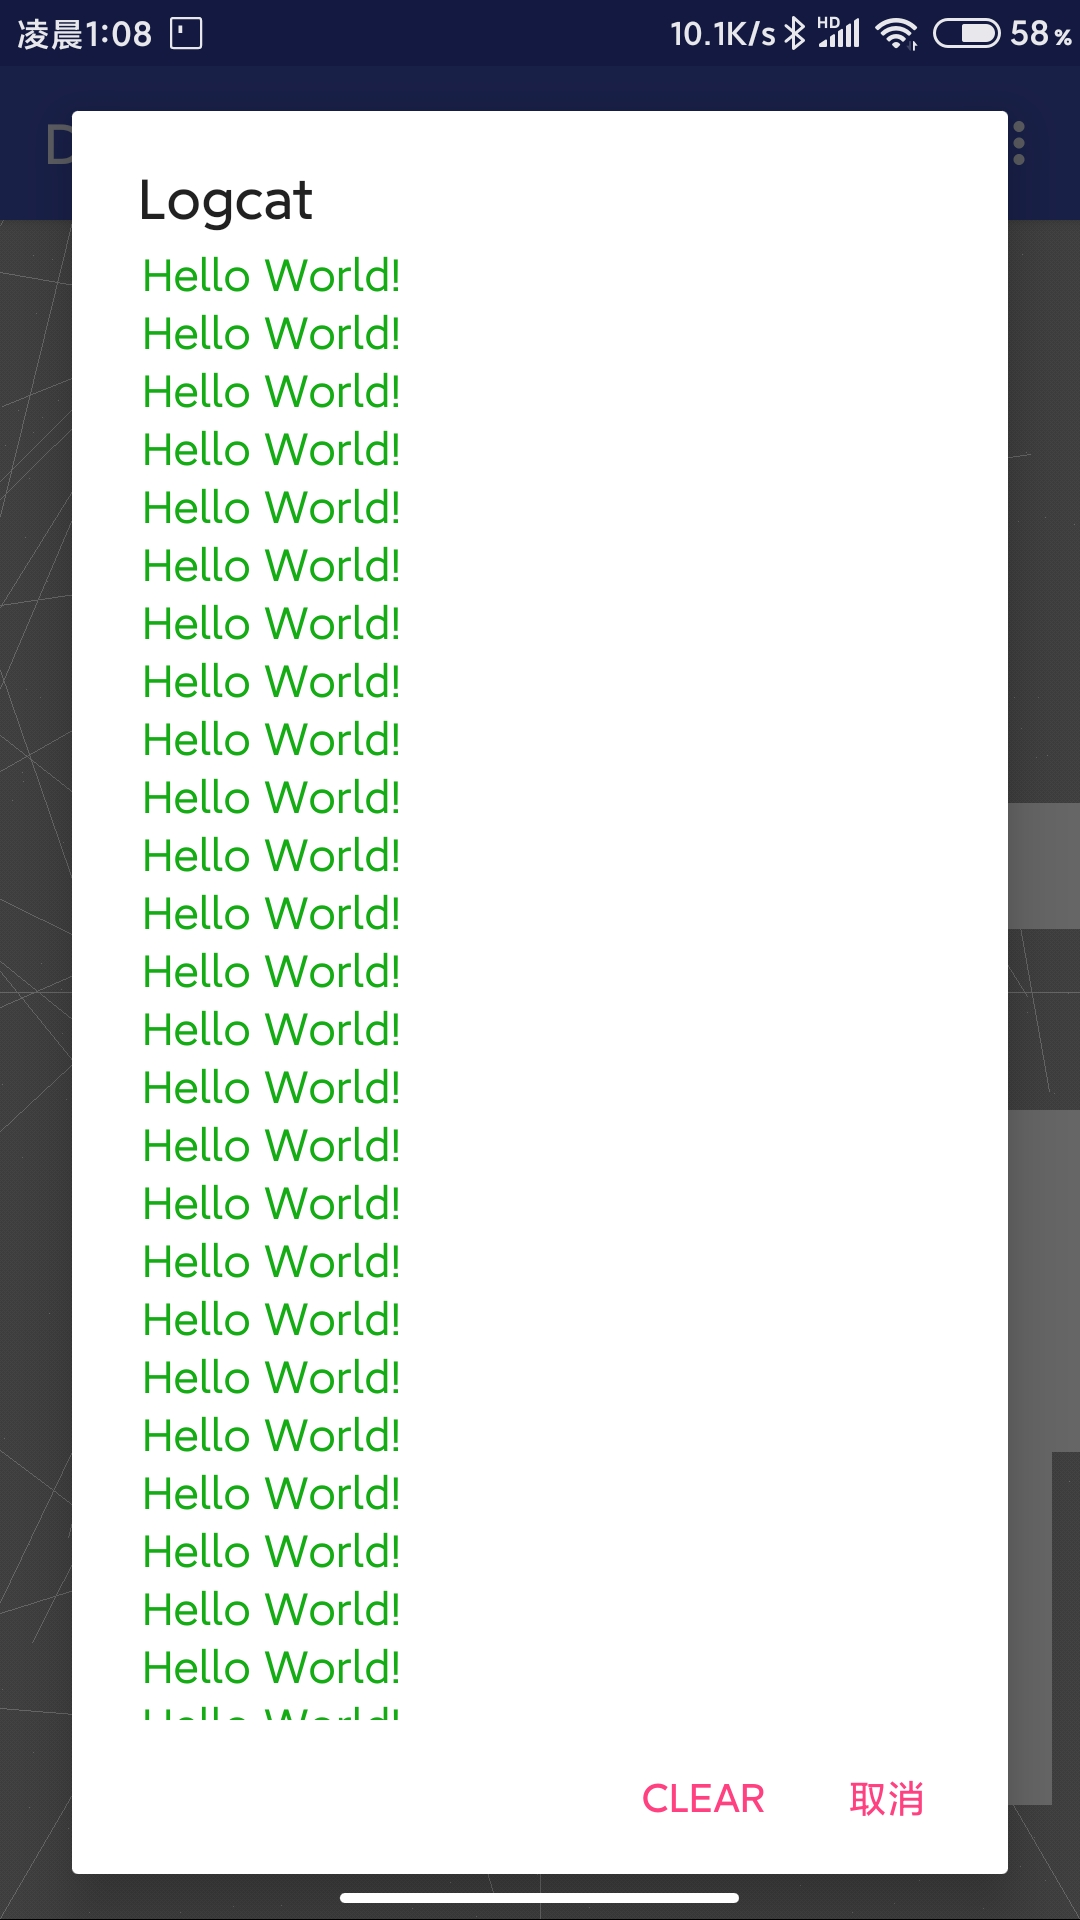
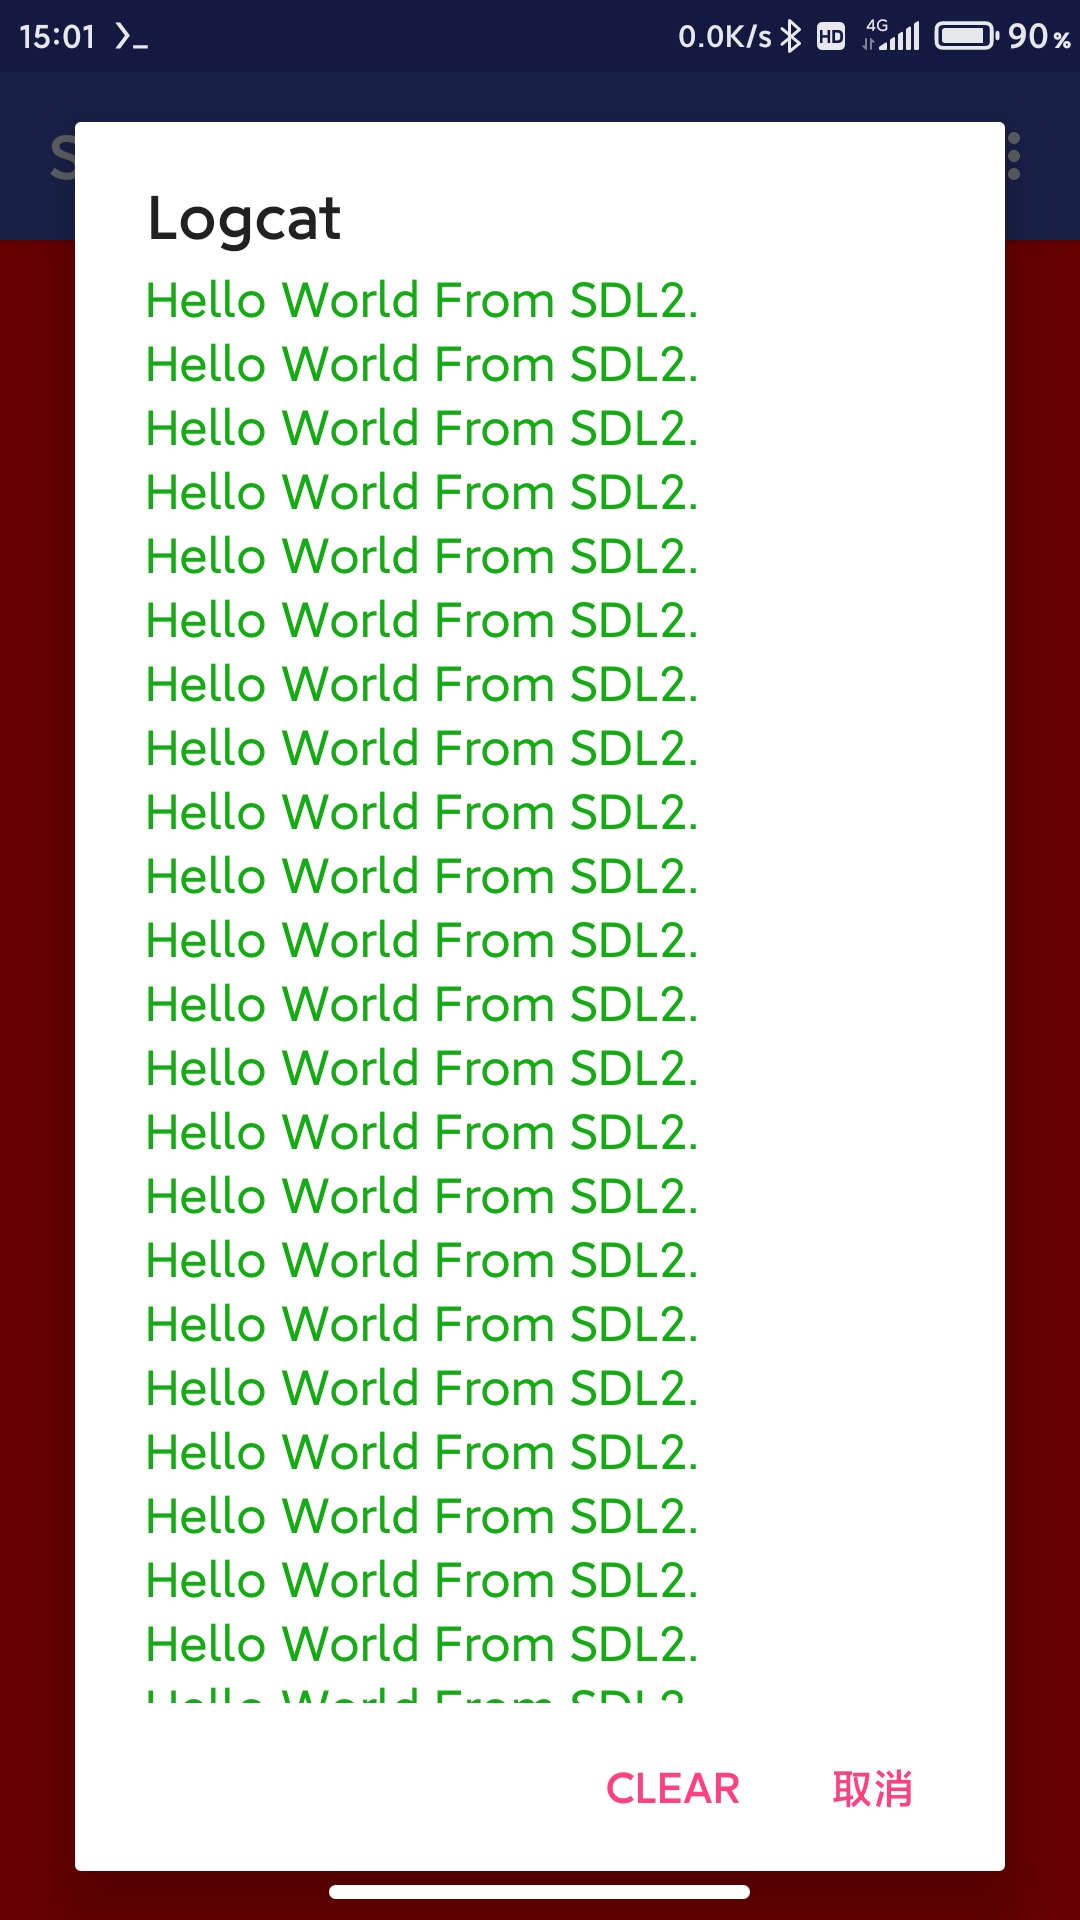
update

Changed region(s): [[0.0, 0.0, 1.0, 1.0]]

diff --git a/examples/SDL2/testlog/test_log.c b/examples/SDL2/testlog/test_log.c
@@ -1,0 +1,45 @@
+
+// For test SDL_AndroidLogPrint
+
+#include "SDL2/SDL.h"
+
+#define WIDTH 480
+#define HEIGHT 640
+
+// define log tag
+#define TAG "SDL2 Log"
+
+int main(int argc, char *args[]) {
+    
+    SDL_Window* win = SDL_CreateWindow("SDL Hello World",
+                              SDL_WINDOWPOS_UNDEFINED, SDL_WINDOWPOS_UNDEFINED, WIDTH, HEIGHT,
+                              SDL_WINDOW_SHOWN);
+    if (win == NULL) {
+        // print log to java program
+        SDL_AndroidLogPrint(LOG_ERROR, TAG, "%s\n", SDL_GetError());
+        SDL_Quit();
+    }
+    
+    SDL_Surface *surface = SDL_GetWindowSurface(win);
+    
+    // fill surface with red color
+    SDL_FillRect(surface, NULL, SDL_MapRGB(surface->format, 0xFF, 0x00, 0x00));
+
+    // update surface
+    SDL_UpdateWindowSurface(win);
+    
+    // print log to java program
+    for(int i=0; i<100;++i) {
+        SDL_AndroidLogPrint(LOG_INFO, TAG, "%s\n", "Hello World From SDL2.");
+        SDL_Delay(50);
+    }
+    
+    // sleep 1000s
+    SDL_Delay(1000000);
+    
+    //SDL_FreeSurface(surface);
+    SDL_DestroyWindow(win);
+    SDL_Quit();
+    
+    return 0;
+}
